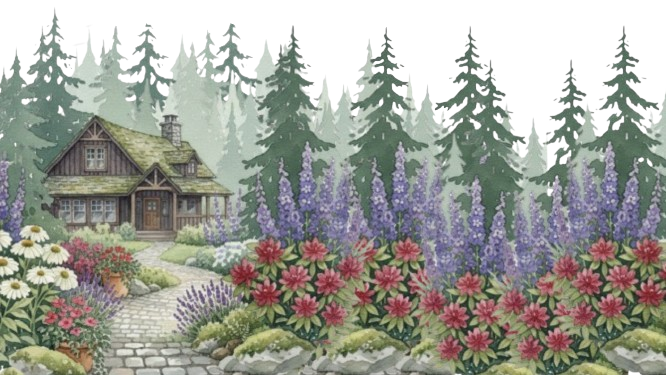
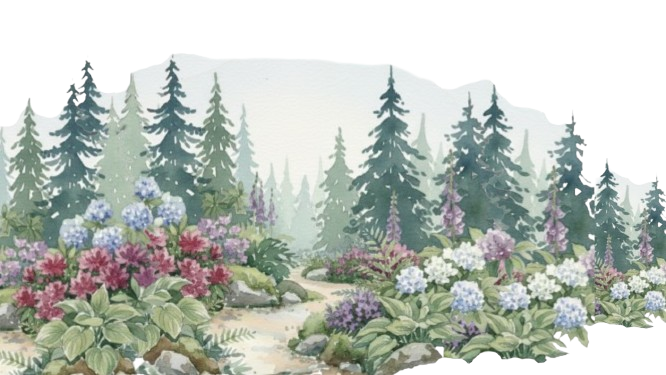
Add hero images to Services and About pages with WCAG compliant text styling

diff --git a/frontend/src/pages/ServicesPage.jsx b/frontend/src/pages/ServicesPage.jsx
@@ -57,17 +57,31 @@ function ServicesPage() {
 
   return (
     <div className="bg-white">
-      <section className="section-padding bg-white relative">
-        <div className="container-custom text-center relative z-10">
-          <h1 className="text-4xl md:text-5xl font-bold mb-6 text-gray-900">Our Services</h1>
-          <p className="text-xl text-gray-700 max-w-3xl mx-auto mb-4">
-            A great yard starts with a solid foundation. Our project team specializes in the heavy lifting 
-            required to give your property a fresh start. We utilize mini-bobcat equipment for efficient site 
-            preparation, ensuring proper drainage and soil grading before any greenery goes in. From the lush 
-            feel of a freshly installed sod lawn to the structural removal of overgrown hedges that have 
-            reclaimed your view, we manage the transition from "messy" to "masterpiece" with precision and care.
-          </p>
+      <section className="relative overflow-hidden pt-48 md:pt-64 lg:pt-80">
+        <img 
+          src="/assets/images/Services1.png" 
+          alt="Beautiful yard landscaping services background"
+          className="absolute inset-0 w-full h-full object-cover"
+          style={{
+            imageRendering: 'auto',
+            minHeight: '100%',
+            minWidth: '100%'
+          }}
+        />
+        <div className="absolute inset-0 bg-black/5"></div>
+        <div className="container-custom relative z-10 pt-8 md:pt-12 pb-8 md:pb-12 -mt-16 md:-mt-24 lg:-mt-32">
+          <div className="max-w-3xl mx-auto text-center">
+            <h1 className="text-4xl md:text-5xl font-bold mb-6 text-black drop-shadow-lg" style={{ textShadow: '0 2px 8px rgba(255, 255, 255, 0.8), 0 1px 3px rgba(0, 0, 0, 0.3)' }}>Our Services</h1>
+            <p className="text-xl text-black max-w-3xl mx-auto mb-4 drop-shadow-lg" style={{ textShadow: '0 2px 8px rgba(255, 255, 255, 0.8), 0 1px 3px rgba(0, 0, 0, 0.3)' }}>
+              A great yard starts with a solid foundation. Our project team specializes in the heavy lifting 
+              required to give your property a fresh start. We utilize mini-bobcat equipment for efficient site 
+              preparation, ensuring proper drainage and soil grading before any greenery goes in. From the lush 
+              feel of a freshly installed sod lawn to the structural removal of overgrown hedges that have 
+              reclaimed your view, we manage the transition from "messy" to "masterpiece" with precision and care.
+            </p>
+          </div>
         </div>
+        <div className="absolute bottom-0 left-0 right-0 h-24 bg-gradient-to-t from-white via-white/80 to-transparent"></div>
       </section>
 
       <section className="section-padding bg-white relative">

diff --git a/frontend/src/pages/AboutPage.jsx b/frontend/src/pages/AboutPage.jsx
@@ -1,15 +1,29 @@
 function AboutPage() {
   return (
     <div className="bg-white">
-      <section className="section-padding bg-white relative">
-        <div className="container-custom text-center relative z-10">
-          <h1 className="text-4xl md:text-5xl font-bold mb-4 text-gray-900">
-            About A Beautiful Yard Landscaping
-          </h1>
-          <p className="text-xl text-gray-700">
-            30+ Years of Hands-On Landscaping Excellence in Greater Victoria
-          </p>
+      <section className="relative overflow-hidden pt-48 md:pt-64 lg:pt-80">
+        <img 
+          src="/assets/images/About1.png" 
+          alt="Beautiful yard landscaping about background"
+          className="absolute inset-0 w-full h-full object-cover"
+          style={{
+            imageRendering: 'auto',
+            minHeight: '100%',
+            minWidth: '100%'
+          }}
+        />
+        <div className="absolute inset-0 bg-black/5"></div>
+        <div className="container-custom relative z-10 pt-8 md:pt-12 pb-8 md:pb-12 -mt-16 md:-mt-24 lg:-mt-32">
+          <div className="max-w-3xl mx-auto text-center">
+            <h1 className="text-4xl md:text-5xl font-bold mb-4 text-black drop-shadow-lg" style={{ textShadow: '0 2px 8px rgba(255, 255, 255, 0.8), 0 1px 3px rgba(0, 0, 0, 0.3)' }}>
+              About A Beautiful Yard Landscaping
+            </h1>
+            <p className="text-xl text-black drop-shadow-lg" style={{ textShadow: '0 2px 8px rgba(255, 255, 255, 0.8), 0 1px 3px rgba(0, 0, 0, 0.3)' }}>
+              30+ Years of Hands-On Landscaping Excellence in Greater Victoria
+            </p>
+          </div>
         </div>
+        <div className="absolute bottom-0 left-0 right-0 h-24 bg-gradient-to-t from-white via-white/80 to-transparent"></div>
       </section>
 
       <section className="section-padding bg-white relative">
